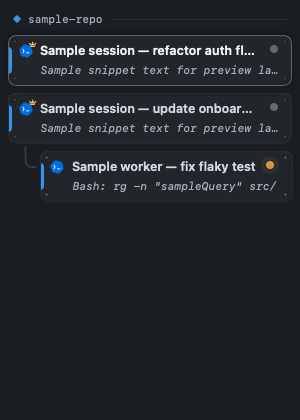
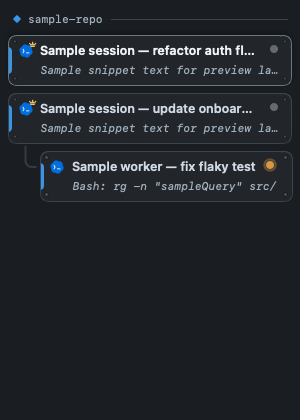
Improve dock list contrast

diff --git a/app/Sources/App/SharedUI/Theme.swift b/app/Sources/App/SharedUI/Theme.swift
@@ -8,7 +8,7 @@ enum AppPalette {
     static let artifactListColumn = panel
     static let artifactViewerBackground = artifactListColumn
     static let terminal = window
-    static let line = NSColor(hex: 0x2b3139)
+    static let line = NSColor(hex: 0x444c56)
     static let lineSoft = NSColor(hex: 0x23282e)
     static let lineSoftSubtle = NSColor(hex: 0x1c2228)
     static let controlFill = NSColor(hex: 0x21262d)
@@ -20,7 +20,7 @@ enum AppPalette {
     static let dim = NSColor(hex: 0x8b949e)
     static let selection = NSColor(hex: 0x2d333b)
     static let hoverBackground = NSColor(hex: 0x21262d)
-    static let hoverBorder = NSColor(hex: 0x68717d)
+    static let hoverBorder = NSColor(hex: 0x768390)
     static let connectorLine = NSColor(hex: 0x3f4750)
 
     // Ported from internal/palette/palette.go and TUI ANSI semantics.